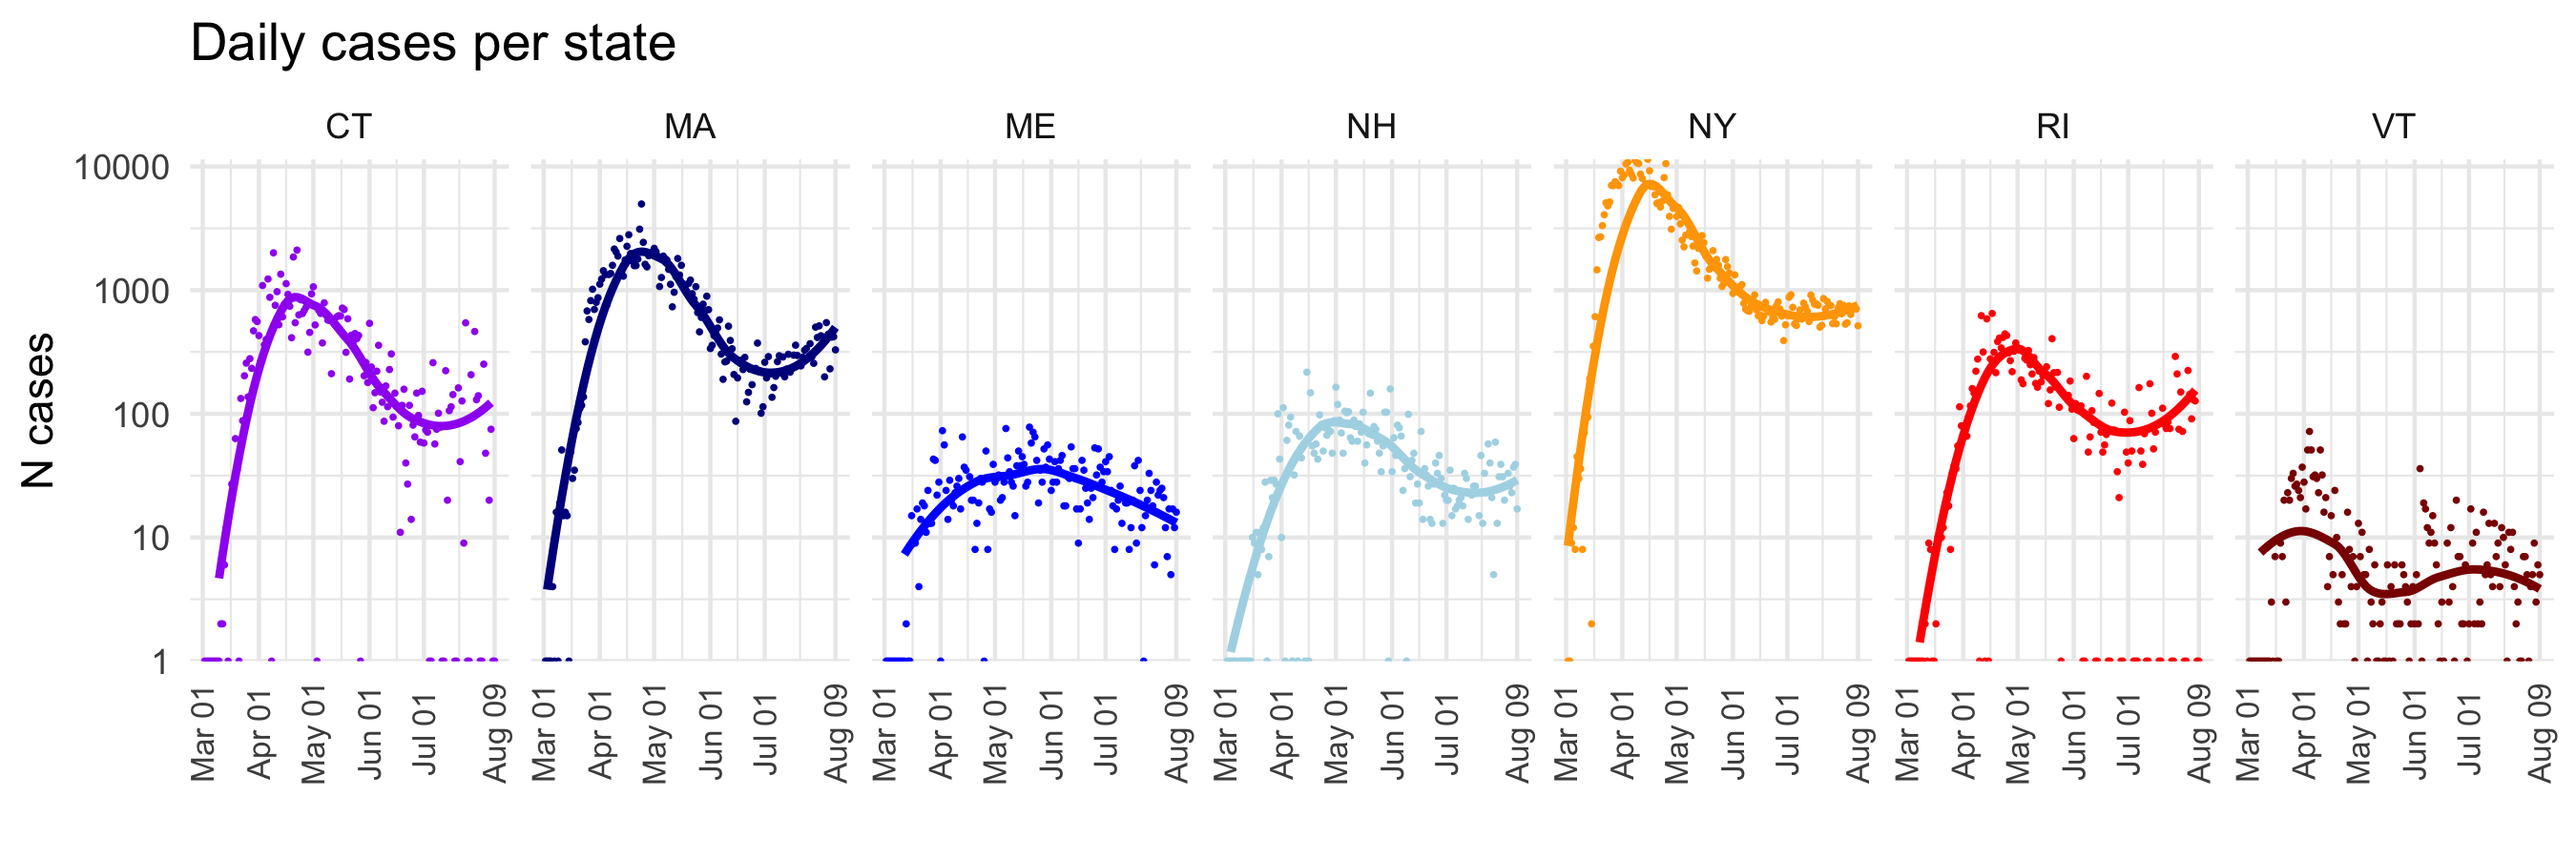
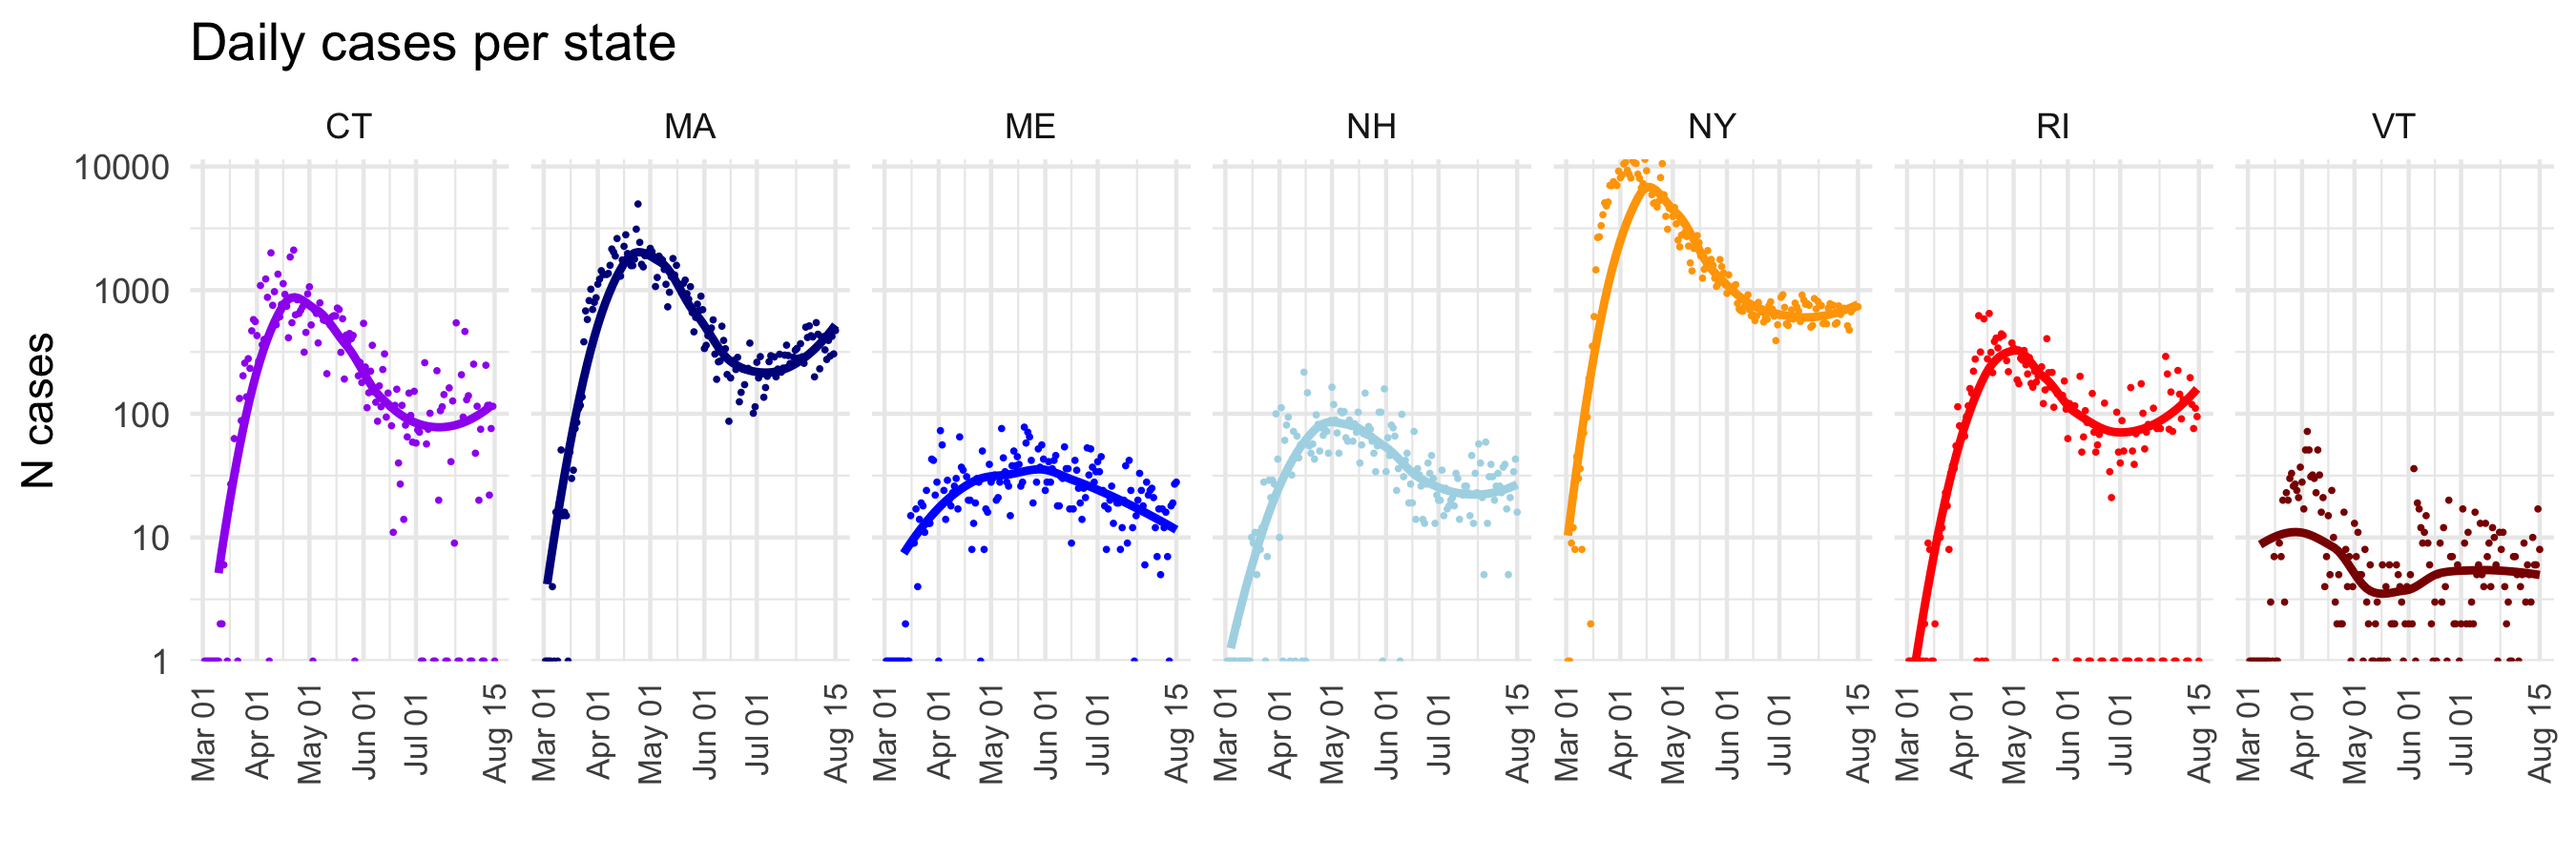
Package update on 2020-08-16 22:50:08

diff --git a/README.md b/README.md
@@ -12,7 +12,7 @@ around a focal point, in this case Worcester, MA, the home of Clark
 University. It also tries to show county-level detail available in state
 datasets.
 
-**Last update**: 2020-08-10 06:19:53
+**Last update**: 2020-08-16 22:50:04
 <img src="vignettes/figures/caserate_map.png" width="95%" style="display: block; margin: auto;" /><img src="vignettes/figures/case_map.png" width="95%" style="display: block; margin: auto;" /><img src="vignettes/figures/statecases_daily.png" width="95%" style="display: block; margin: auto;" /><img src="vignettes/figures/statecases_cumulative.png" width="95%" style="display: block; margin: auto;" /><img src="vignettes/figures/statedeaths_daily.png" width="95%" style="display: block; margin: auto;" /><img src="vignettes/figures/statedeaths_cumulative.png" width="95%" style="display: block; margin: auto;" />
 
 ## Notes
